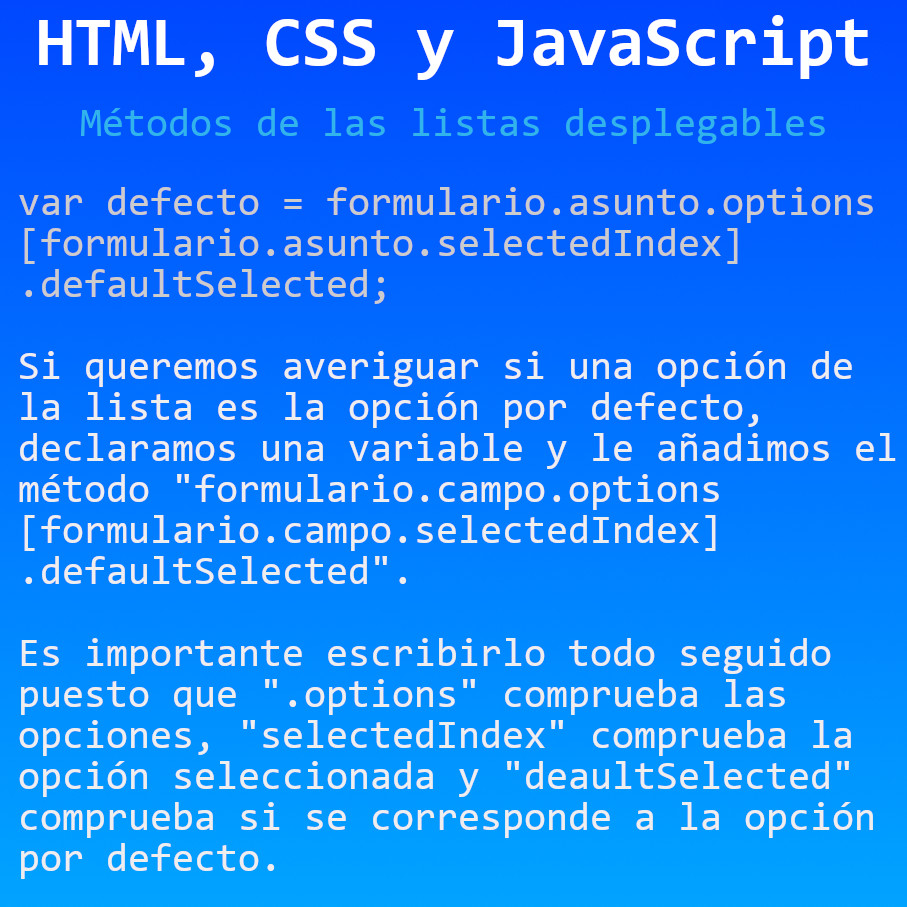
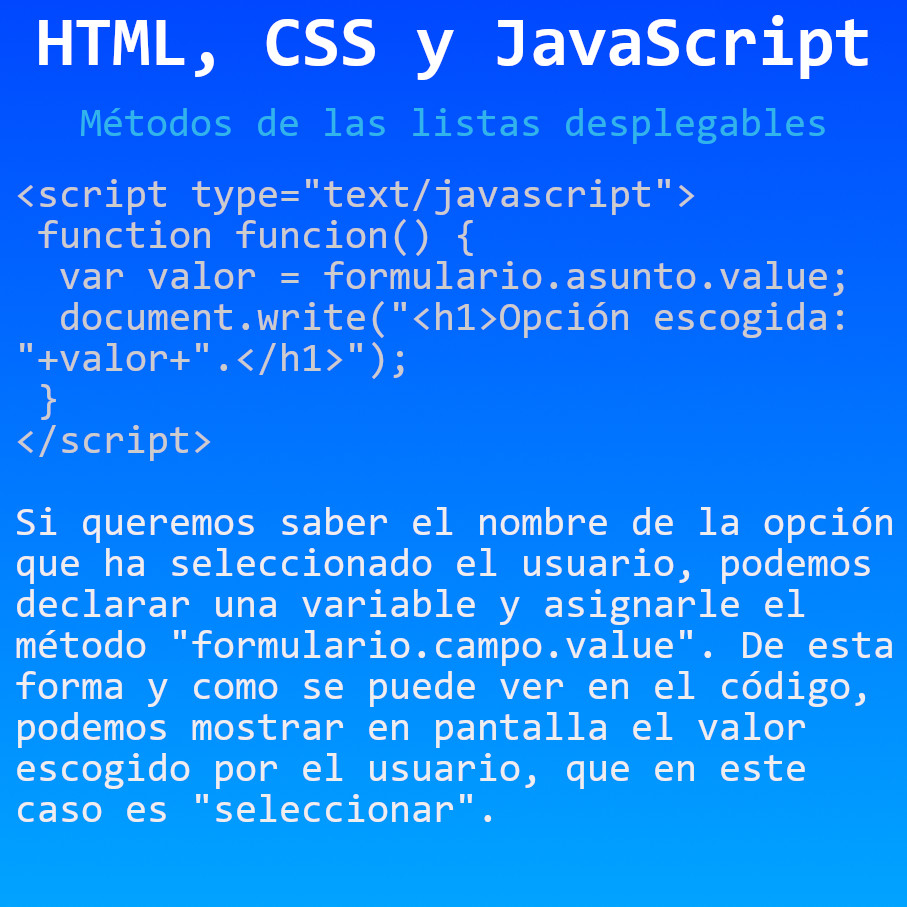
Métodos de las listas desplegables
Métodos de las listas desplegables en JavaScript

Changed region(s): [[0.0, 0.1852, 0.9879, 0.957]]

diff --git a/HTML, CSS y JavaScript/Métodos de las listas desplegables/index.html b/HTML, CSS y JavaScript/Métodos de las listas desplegables/index.html
@@ -22,10 +22,13 @@
         var seleccion = formulario.asunto.selectedIndex;
         // comprobar si la opción escogida es la opción por defecto
         var defecto = formulario.asunto.options[formulario.asunto.selectedIndex].defaultSelected;
+        // comprobar la opción escogida
+        var valor = formulario.asunto.value;
         // mostrar en pantalla
         document.write("<h1>Hay "+longitud+" opciones.</h1>");
         document.write("<h1>Se ha seleccionado la opción: "+seleccion+".</h1>");
-        document.write("<h1>¿Opción por defecto? "+defecto+".</h1>");
+        document.write("<h1>Opción por defecto: "+defecto+".</h1>");
+        document.write("<h1>Opción escogida: "+valor+".</h1>");
       }
     </script>
   </head>
